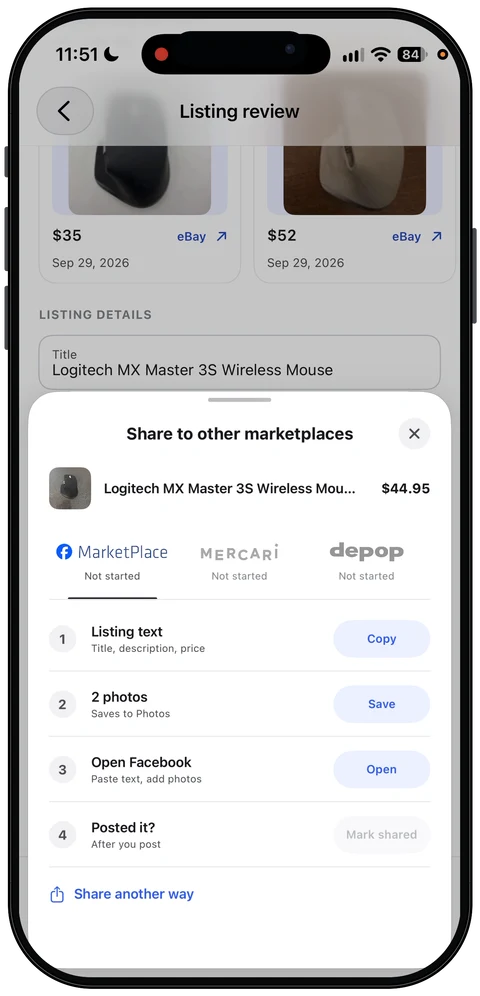
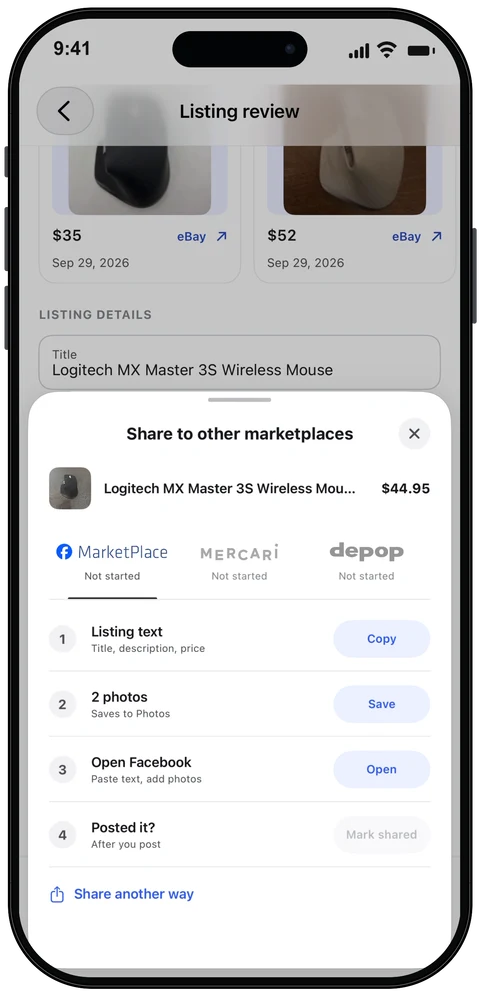
Clean README status bars and show complete Flips screen (#1214)

Changed region(s): [[0.2812, 0.0311, 0.9375, 0.0934], [0.0938, 0.0311, 0.25, 0.0622]]

diff --git a/scripts/readme/normalize-stills.py b/scripts/readme/normalize-stills.py
@@ -1,0 +1,75 @@
+#!/usr/bin/env python3
+"""Extract native recording stills and replace only their 180px status-bar band.
+
+Requires ffmpeg and ImageMagick 7. The input receipt supplies source timestamps.
+App pixels below the band are preserved; the shared PNGs are presentation edits.
+"""
+import argparse
+import hashlib
+import json
+from pathlib import Path
+import subprocess
+import tempfile
+
+
+def digest(path):
+    value = hashlib.sha256()
+    with path.open('rb') as source:
+        for chunk in iter(lambda: source.read(1024 * 1024), b''):
+            value.update(chunk)
+    return value.hexdigest()
+
+
+def main():
+    parser = argparse.ArgumentParser(description=__doc__)
+    parser.add_argument('--video', type=Path, required=True)
+    parser.add_argument('--receipt', type=Path, required=True)
+    parser.add_argument('--output-dir', type=Path, required=True)
+    parser.add_argument('--font', type=Path,
+                        default=Path('/System/Library/Fonts/Supplemental/Arial Bold.ttf'))
+    args = parser.parse_args()
+    if not args.font.is_file():
+        parser.error('Supply --font with a bold sans-serif TrueType font')
+    receipt = json.loads(args.receipt.read_text())
+    if digest(args.video) != receipt['video_sha256']:
+        parser.error('Source video hash does not match receipt')
+    overlay = Path(__file__).with_name('standard-status-bar.svg')
+    args.output_dir.mkdir(parents=True, exist_ok=True)
+    with tempfile.TemporaryDirectory(prefix='native-stills-') as tmp:
+        raw = Path(tmp) / 'raw.png'
+        for entry in receipt['stills']:
+            name = entry['png']
+            if Path(name).name != name or not name.endswith('.png'):
+                parser.error('Receipt PNG must be a .png filename')
+            subprocess.run(['ffmpeg', '-v', 'error', '-y', '-ss', str(entry['source_seconds']),
+                            '-i', str(args.video), '-map', '0:v:0', '-frames:v', '1',
+                            '-threads', '1', str(raw)], check=True)
+            dimensions = subprocess.check_output(
+                ['magick', 'identify', '-format', '%w %h', str(raw)], text=True).strip()
+            if dimensions != '1206 2622':
+                parser.error('This measured status band requires 1206x2622 input')
+            # Match the safe-area background at the band's lower left edge.
+            background = subprocess.check_output(
+                ['magick', str(raw), '-format', '%[pixel:p{10,179}]', 'info:'], text=True).strip()
+            output = args.output_dir / name
+            subprocess.run(['magick', str(raw), '-fill', background, '-draw',
+                            'rectangle 0,0 1205,179', '(', '-background', 'none', str(overlay), ')',
+                            '-geometry', '+0+0', '-compose', 'Over', '-composite',
+                            '-font', str(args.font), '-pointsize', '52', '-fill', '#111111',
+                            '-gravity', 'NorthWest', '-annotate', '+94+61', '9:41',
+                            '-strip', str(output)], check=True)
+            entry['source_png_sha256'] = digest(raw)
+            entry['sha256'] = digest(output)
+            entry['status_bar_crop'] = None
+            entry['status_bar_replacement'] = {
+                'band': [0, 0, 1206, 180], 'time': '9:41',
+                'island': 'standard', 'signal_wifi_battery': 'full',
+                'recording_indicator': False, 'background': background}
+    receipt['status_bar_svg_sha256'] = digest(overlay)
+    receipt['status_bar_font_sha256'] = digest(args.font)
+    receipt['presentation_edit'] = 'Only the top 180px status band is replaced; app pixels below it are unchanged.'
+    (args.output_dir / args.receipt.name).write_text(json.dumps(receipt, indent=2) + '\n')
+
+
+if __name__ == '__main__':
+    main()

diff --git a/scripts/readme/frame-screens.py b/scripts/readme/frame-screens.py
@@ -45,7 +45,8 @@ def frame(source, output, crop=None):
     output.parent.mkdir(parents=True, exist_ok=True)
     with tempfile.TemporaryDirectory(prefix="readme-frame-") as tmp:
         tmp = Path(tmp)
-        screen, mask, device = [tmp / f"{name}.png" for name in ("screen", "mask", "device")]
+        # Lossless native intermediates avoid repeated full-size PNG compression.
+        screen, mask, device = [tmp / f"{name}.miff" for name in ("screen", "mask", "device")]
         args = [source]
         if crop:
             args += ["-crop", crop, "+repage"]

diff --git a/docs/readme/README.md b/docs/readme/README.md
@@ -14,24 +14,30 @@ The animated Scout remains unchanged and is documented below.
 | `phone-to-list.webp` | `native-03-to-list.png` | 352.8 | Two ready items with rendered backpack and mouse thumbnails; no raw item ID title or placeholder. |
 | `phone-listing-review.webp` | `native-04-listing-sold-comps.png` | 207.5 | Jordan 3 review: $155 price, three sold matches, $100–$180 range, sale cards and editable fields. |
 | `phone-ebay-posted.webp` | `native-05-posted-to-ebay.png` | 301.7 | Actual post-success screen, Jordan photo and "Live on eBay" label. |
-| `phone-flips.webp` | `native-06-flips-live.png` | 321.0 | Populated Flips with the posted Jordan photo, after loading completes. |
+| `phone-flips.webp` | `native-06-flips-live.png` | 412.0 | Populated Flips with loaded mouse and Jordan photos and the navigation dock. |
 | `phone-sharing.webp` | `native-07-facebook-share.png` | 378.0 | Logitech mouse sharing drawer at $44.95 with two photos; Facebook Marketplace, Mercari and Depop all show Not started. |
 
 ## Capture quality, privacy and evidence
 
 The source timestamps fall within the editor's corresponding `screen` ranges in
-`data/snaplist-demo-edit/edit/edl.json`. They were checked against the walkthrough
+`data/snaplist-demo-edit/edit/edl.json`; the replacement Flips frame at 412.0 seconds
+uses the later beat-8 range after both photos load. They were checked against the walkthrough
 bug log. Selected frames contain no mouse cursor, raw "Item <id>" title, empty
 "No items yet" state, "Can't load" state, "(seller-stated)" suffix, error banner
 or missing item photo. Each source and framed output was visually inspected.
 No readable name, email, account ID, credential or notification is displayed.
 The one-letter profile avatar remains visible where captured.
 
-The native PNGs are unretouched full-resolution extracts. No status-bar crop was
-needed because no notification is visible. Native recording, microphone/camera,
-time and battery indicators remain source content. Framing resizes proportionally
-and rounds the screen aperture; it does not redraw UI or digitally remove a cursor.
-No source commit or installed-build SHA is inferred from the recording filename.
+The exported PNGs are presentation edits of full-resolution native extracts.
+At the captain's request, only the top 180-pixel status-bar band is replaced with
+9:41, a standard-size Dynamic Island and full signal/Wi-Fi/battery. The recording
+dot, focus moon and microphone/camera indicators are omitted from this band.
+This is display chrome, not device-state evidence. All app pixels below the band
+are unchanged. The background is sampled at the band's lower-left edge.
+The old single-tile Flips frame with no dock is excluded; the later source at
+412.0 seconds has two real photos and the dock, without painting either into UI.
+Framing resizes proportionally and rounds the screen aperture. No source commit
+or installed-build SHA is inferred from the recording filename.
 
 The Pro-on image is explicitly an Apple sandbox demonstration, not a live Apple
 purchase receipt or permanent price/allowance commitment. The eBay success screen
@@ -49,15 +55,27 @@ and PNGs are not committed to this repository.
 
 [Native still receipt](native-still-receipt.json) records the source-video hash,
 editor EDL hash, source seconds, native dimensions, PNG filenames and hashes.
-To extract an individual still without resizing or filtering:
+To extract an individual raw still without resizing or filtering:
 
 ```sh
 ffmpeg -ss SOURCE_SECONDS -i RPReplay_Final1790869944.MP4 \
   -map 0:v:0 -frames:v 1 -threads 1 STILL.png
 ```
 
-Copy the selected PNGs under their listed filenames to ignored
-`ios/Artifacts/readme-input/`, then regenerate the README images from the root:
+Regenerate the seven presentation PNGs (macOS font default; use `--font` for a
+bold sans-serif TrueType font elsewhere), then the framed images:
+
+```sh
+python3 scripts/readme/normalize-stills.py \
+  --video /path/to/RPReplay_Final1790869944.MP4 \
+  --receipt docs/readme/native-still-receipt.json \
+  --output-dir ios/Artifacts/readme-input
+```
+
+The generated receipt records both raw-extract and presentation-PNG hashes,
+the replacement band and SVG/font hashes. Copy it to `docs/readme/` when updating
+sources. The authorized shared Desktop PNGs use this same status-bar treatment.
+Then run:
 
 ```sh
 python3 scripts/readme/frame-screens.py \

diff --git a/scripts/readme/README.md b/scripts/readme/README.md
@@ -8,9 +8,12 @@ or third-party mockup. It is a presentation enclosure, not a photo of hardware.
 Every output is a transparent 480 × 996 WebP, with the same device geometry,
 rounded screen aperture, bezel, side buttons and camera island. The image is
 encoded at quality 88 with lossless alpha and must be smaller than 250,000 bytes.
-The source status bar and app content remain intact. The camera island occupies
-the hardware cutout area; no names, prices, item content or UI states are painted
-into the screen.
+App content remains intact. The current source PNGs first pass through
+`normalize-stills.py`, which replaces only the measured 180px native status-bar
+band with 9:41, full signal/Wi-Fi/battery and a normal-size island. This original
+presentation chrome is explicitly disclosed in the provenance receipt. The
+camera island occupies the hardware cutout area; item content and UI states
+below the band are not painted into the screen.
 
 ```sh
 brew install imagemagick

diff --git a/README.md b/README.md
@@ -33,7 +33,7 @@
 <p align="center">
   <img src="docs/readme/phone-ebay-posted.webp" width="220" alt="Native eBay post success: Jordan 3 shoes are marked Live on eBay.">
   &nbsp;
-  <img src="docs/readme/phone-flips.webp" width="220" alt="Native Flips: the posted Jordan 3 shoes appear with a real photo and October 1 date.">
+  <img src="docs/readme/phone-flips.webp" width="220" alt="Native Flips: the mouse and posted Jordan 3 shoes appear with real photos, October 1 dates, and the navigation dock.">
   &nbsp;
   <img src="docs/readme/phone-sharing.webp" width="220" alt="Native Facebook Marketplace sharing drawer: a Logitech mouse at $44.95, two photos, and text/photo handoff steps; all destinations show Not started.">
 </p>
